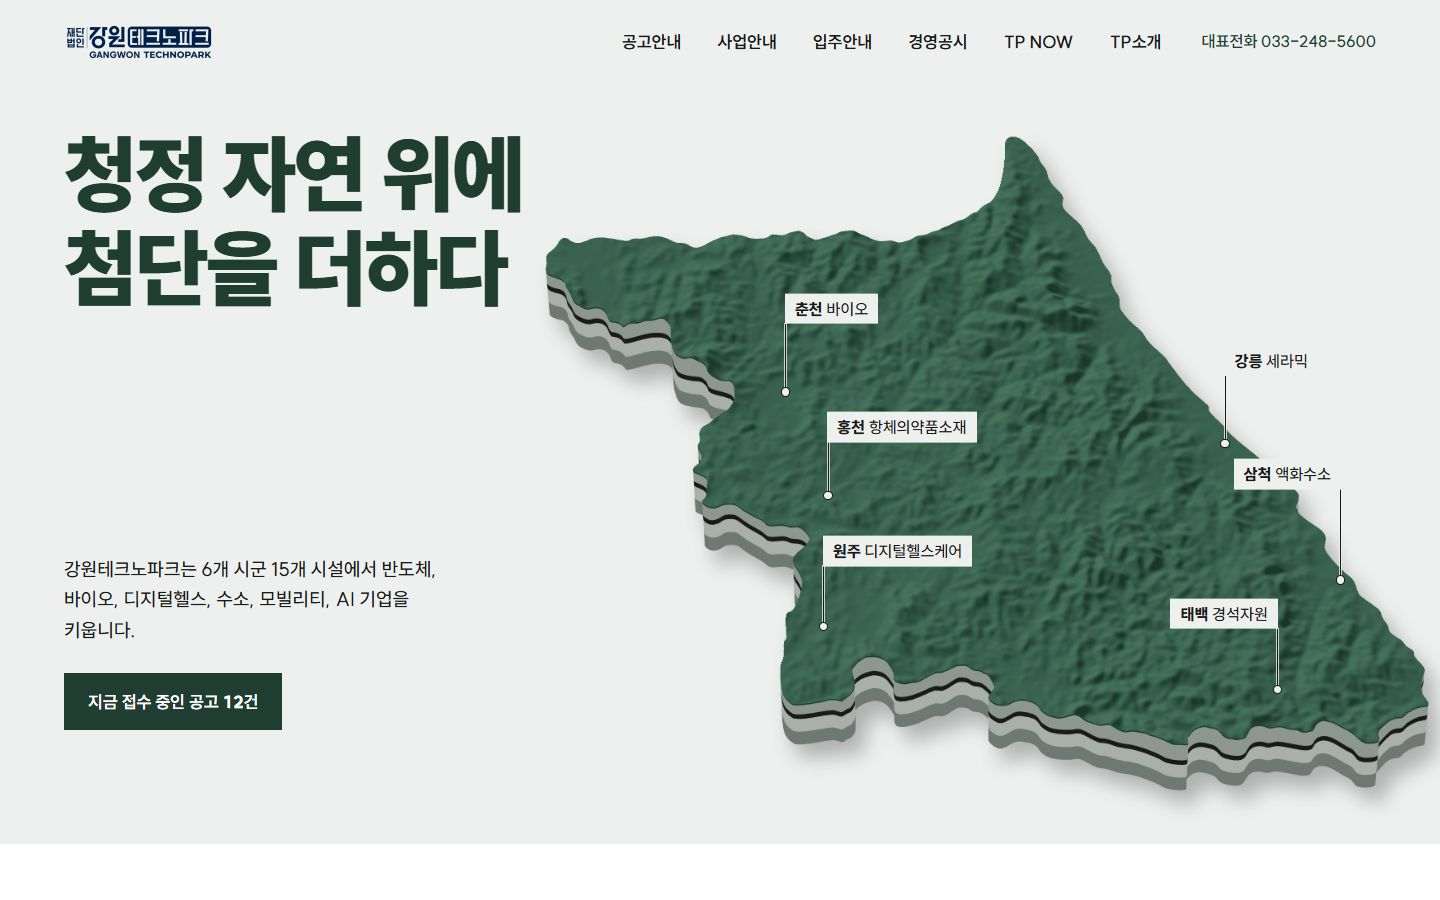
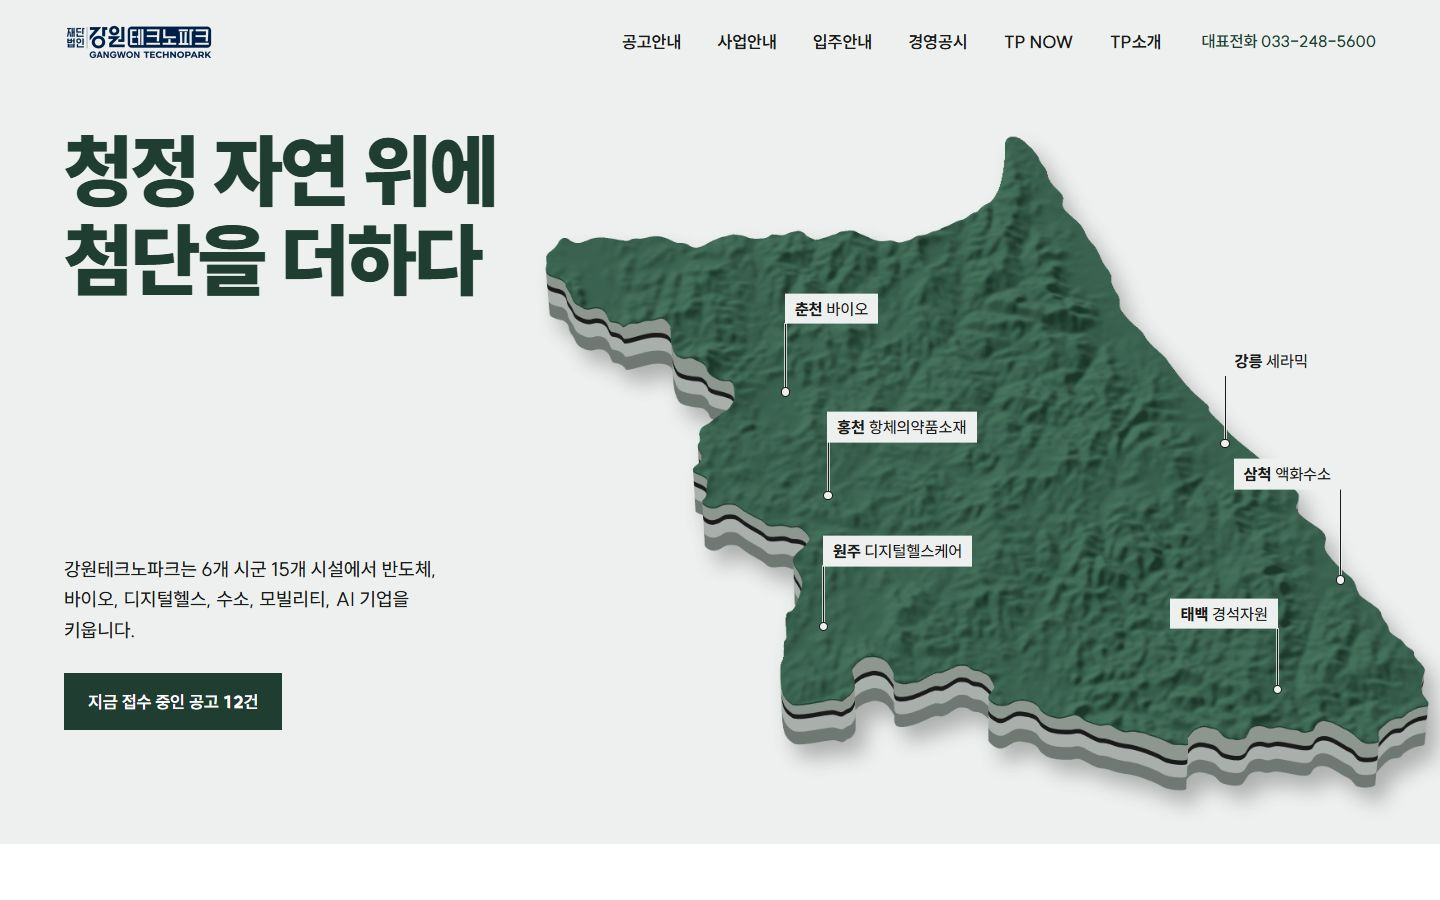
중간 폭(1024~1280)에서 ①·② 제목과 그림이 겹치지 않게 조정(#1487)

Changed region(s): [[0.0312, 0.1244, 0.375, 0.3422]]

diff --git a/2/style.css b/2/style.css
@@ -50,7 +50,7 @@ img { display: block; max-width: 100%; height: auto; }
   margin: 0;
   width: fit-content;
   font-weight: 900;
-  font-size: 84px;
+  font-size: clamp(56px, 5.5vw, 84px);
   line-height: 1.12;
   letter-spacing: -0.03em;
   color: var(--green);
@@ -166,8 +166,7 @@ img { display: block; max-width: 100%; height: auto; }
   :root { --pad: 48px; }
   .menu { gap: 26px; }
   .call { display: none; }
-  .hero h1 { font-size: 72px; }
-  .model { width: min(70vw, 860px); right: -32px; top: 24px; }
+  .model { width: min(70vw, 860px); right: -48px; top: 24px; }
   .aside { top: 400px; width: 340px; }
   .hero { min-height: 680px; }
   .nlist { grid-template-columns: repeat(2, minmax(0, 1fr)); gap: 32px 48px; }

diff --git a/1/style.css b/1/style.css
@@ -48,6 +48,10 @@ img { display: block; max-width: 100%; }
 
 @media (max-width: 1279px) {
   .menu a { font-size: 16px; }
+  .lead { max-width: 27vw; }
+  .shot { top: -.6vw; }
+  .tag.r { top: calc(.8 * 100%); transform: translate(-50%, 22px); }
+  .tag.r::after { top: auto; bottom: calc(100% + 4px); }
 }
 
 @media (max-width: 1023px) {
